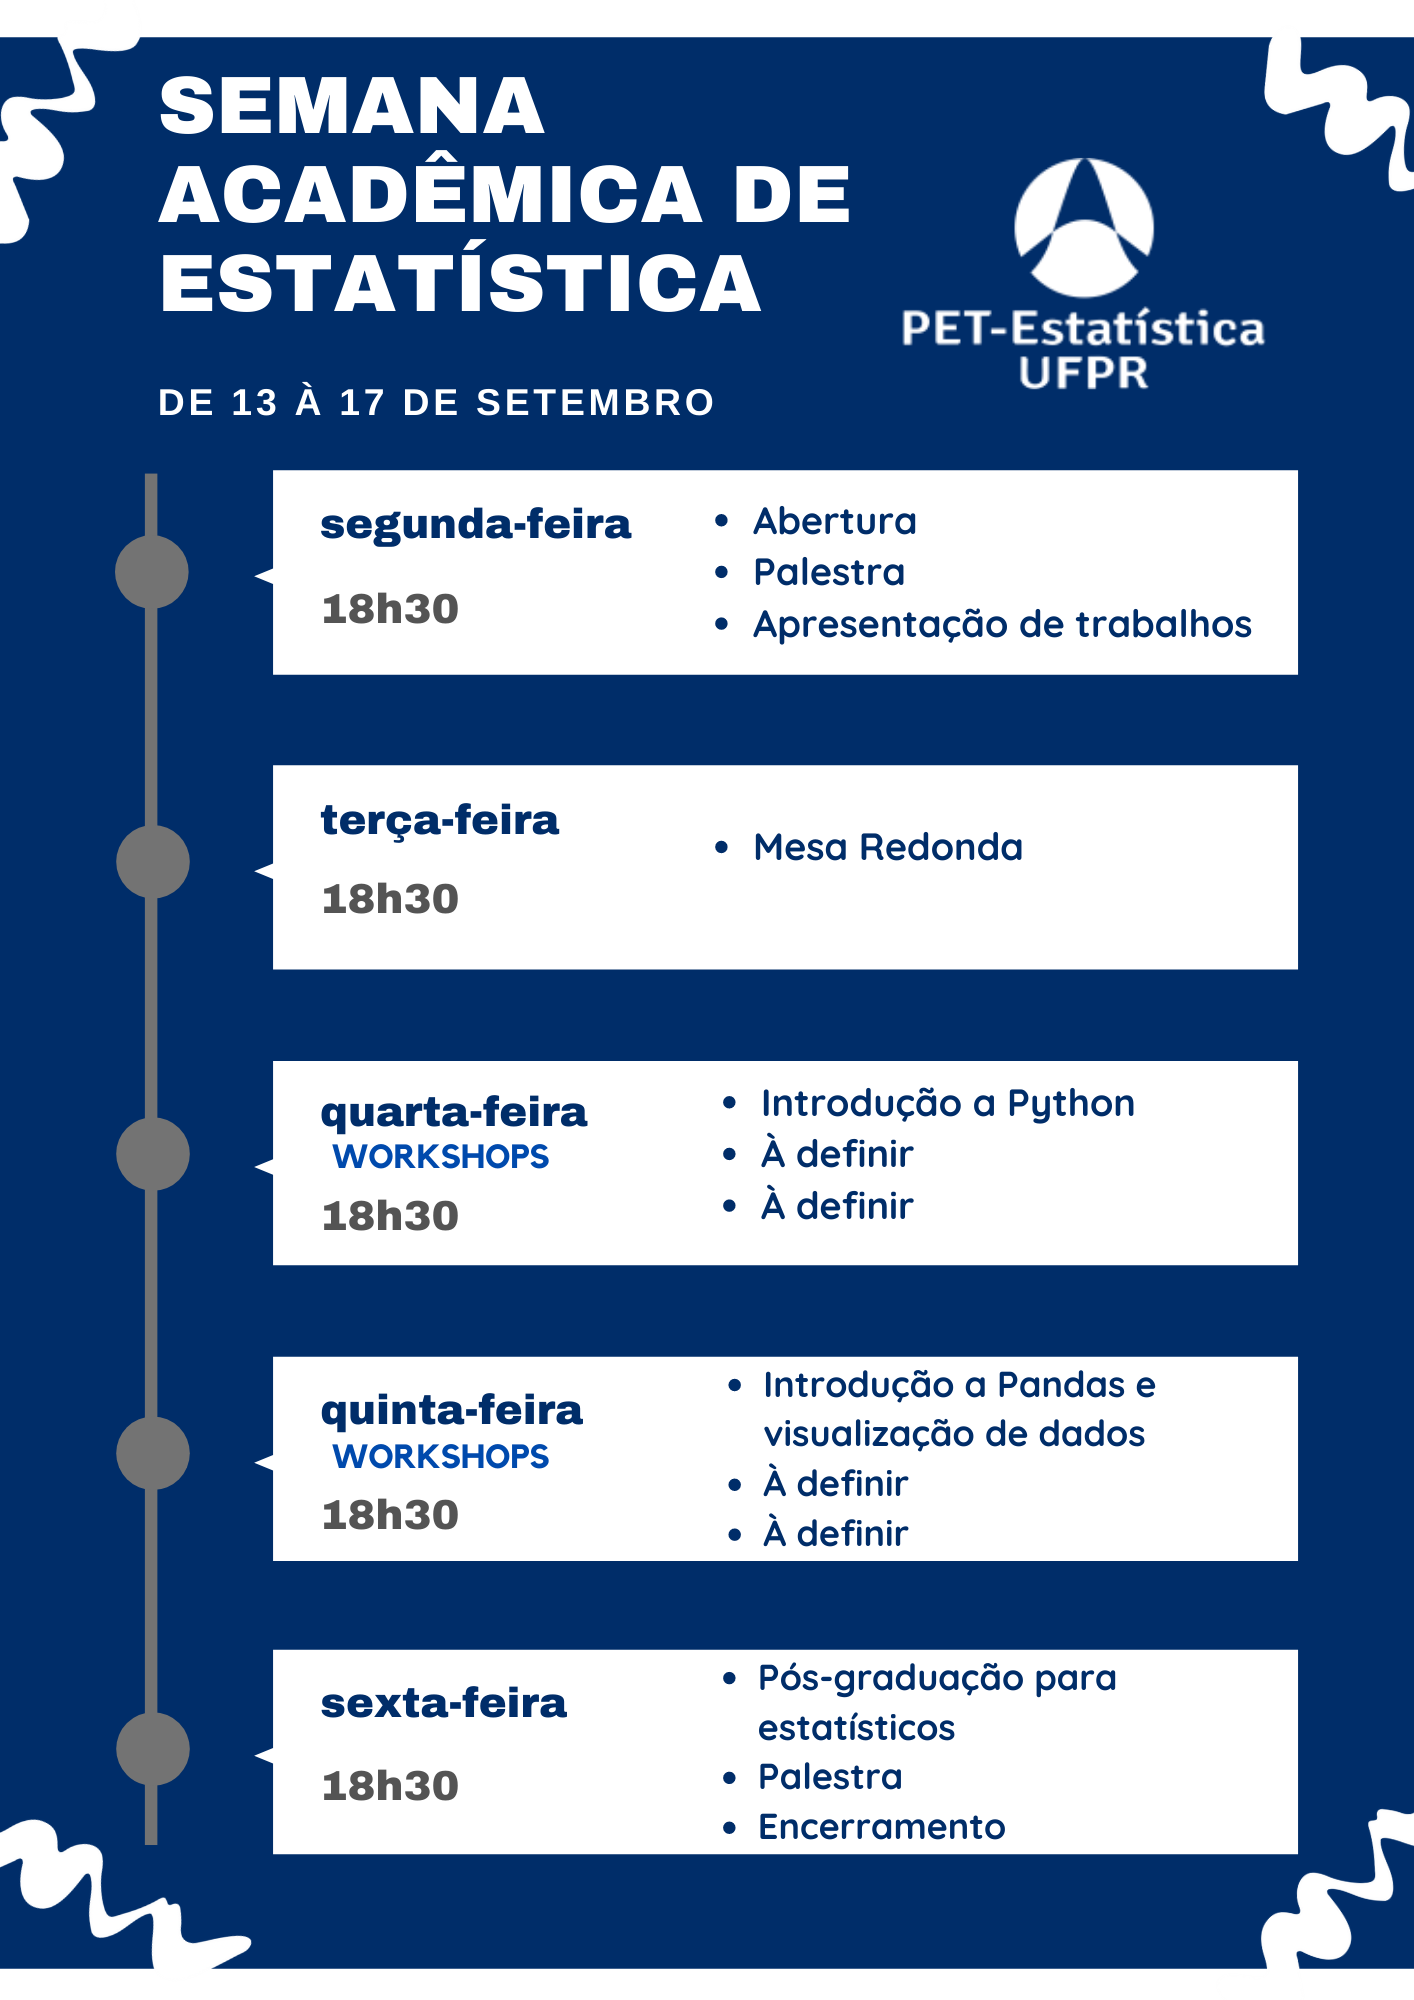
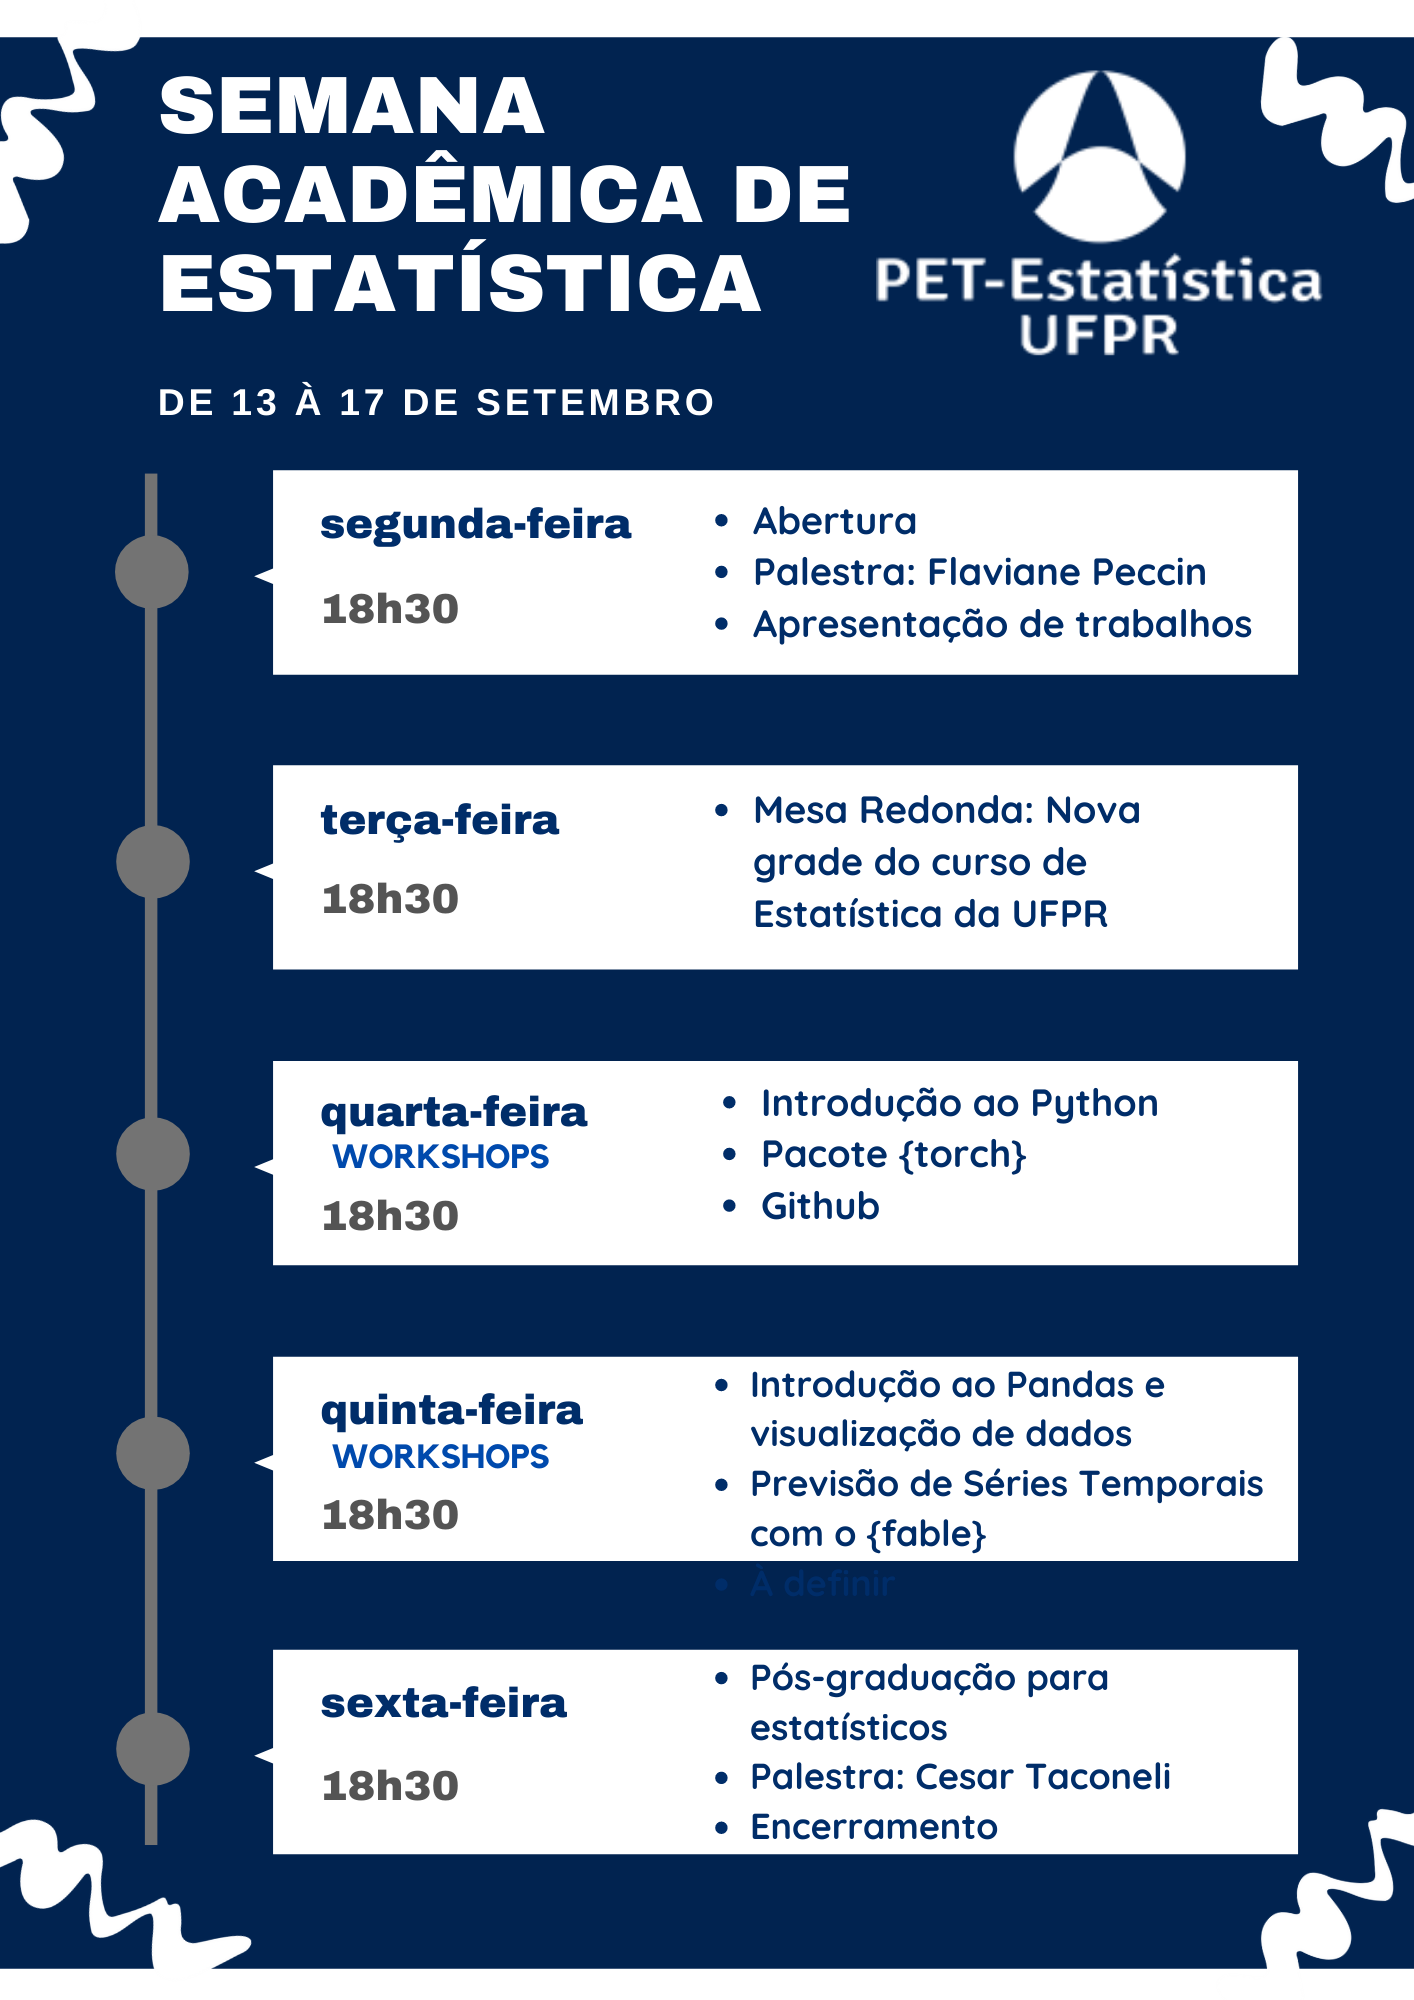
Atualiza pagina geral

diff --git a/content/semana/crono.html b/content/semana/crono.html
@@ -22,81 +22,64 @@
 
 </head>
 <body>
-<table class="table table-striped table-bordered" style="margin-left: auto; margin-right: auto;">
- <thead>
-  <tr>
-   <th style="text-align:left;"> Hora1 </th>
-   <th style="text-align:left;"> Segunda 13/09 </th>
-   <th style="text-align:left;"> Hora2 </th>
-   <th style="text-align:left;"> Terça 14/09 </th>
-   <th style="text-align:left;"> Hora3 </th>
-   <th style="text-align:left;"> Quarta 15/09 </th>
-   <th style="text-align:left;"> Hora4 </th>
-   <th style="text-align:left;"> Quinta 16/09 </th>
-   <th style="text-align:left;"> Hora5 </th>
-   <th style="text-align:left;"> Sexta 17/09 </th>
-  </tr>
- </thead>
+<table class="table table-striped table-bordered table-responsive" style="margin-left: auto; margin-right: auto;">
 <tbody>
-  <tr>
-   <td style="text-align:left;"> 18:30 </td>
-   <td style="text-align:left;"> Abertura </td>
-   <td style="text-align:left;"> 18:30 </td>
-   <td style="text-align:left;"> Mesa redonda DEST </td>
-   <td style="text-align:left;"> 18:30 </td>
-   <td style="text-align:left;"> Workshop 1 </td>
-   <td style="text-align:left;"> 18:30 </td>
-   <td style="text-align:left;"> Workshop 3 </td>
-   <td style="text-align:left;"> 18:30 </td>
-   <td style="text-align:left;"> Apresentação pós </td>
+  <tr grouplength="3"><td colspan="2" style="border-bottom: 1px solid;color: 3f3f3f !important;background-color: lightgrey !important;"><strong>Segunda-feira (13/09)</strong></td></tr>
+<tr>
+   <td style="text-align:left;padding-left: 2em;color: 3f3f3f !important;" indentlevel="1"> 18:30 – 19:00 </td>
+   <td style="text-align:left;color: 3f3f3f !important;"> Abertura e boas vindas </td>
   </tr>
   <tr>
-   <td style="text-align:left;"> 19:00 </td>
-   <td style="text-align:left;"> Palestra </td>
-   <td style="text-align:left;"> 19:30 </td>
-   <td style="text-align:left;"> Mesa redonda DEST </td>
-   <td style="text-align:left;"> 20:00 </td>
-   <td style="text-align:left;"> GitHub </td>
-   <td style="text-align:left;"> 20:00 </td>
-   <td style="text-align:left;"> Workshop 4 </td>
-   <td style="text-align:left;"> 19:30 </td>
-   <td style="text-align:left;"> Apresentação pós </td>
+   <td style="text-align:left;padding-left: 2em;color: 3f3f3f !important;" indentlevel="1"> 19:00 – 20:15 </td>
+   <td style="text-align:left;color: 3f3f3f !important;"> Palestra de abertura: Flaviane Peccin </td>
   </tr>
   <tr>
-   <td style="text-align:left;"> 20:00 </td>
-   <td style="text-align:left;"> Apresentação de trabalhos </td>
-   <td style="text-align:left;"> 20:30 </td>
-   <td style="text-align:left;"> Mesa redonda DEST </td>
-   <td style="text-align:left;"> 20:30 </td>
-   <td style="text-align:left;"> Workshop 2 </td>
-   <td style="text-align:left;"> 20:30 </td>
-   <td style="text-align:left;"> Workshop 5 </td>
-   <td style="text-align:left;"> 20:30 </td>
-   <td style="text-align:left;"> Palestra </td>
+   <td style="text-align:left;padding-left: 2em;color: 3f3f3f !important;" indentlevel="1"> 20:15 – 21:30 </td>
+   <td style="text-align:left;color: 3f3f3f !important;"> Apresentação de trabalhos </td>
+  </tr>
+  <tr grouplength="1"><td colspan="2" style="border-bottom: 1px solid;color: 3f3f3f !important;background-color: lightgrey !important;"><strong>Terça-feira (14/09)</strong></td></tr>
+<tr>
+   <td style="text-align:left;padding-left: 2em;color: 3f3f3f !important;" indentlevel="1"> 18:30 – 20:30 </td>
+   <td style="text-align:left;color: 3f3f3f !important;"> Mesa redonda </td>
+  </tr>
+  <tr grouplength="3"><td colspan="2" style="border-bottom: 1px solid;color: 3f3f3f !important;background-color: lightgrey !important;"><strong>Quarta-feira (15/09)</strong></td></tr>
+<tr>
+   <td style="text-align:left;padding-left: 2em;color: 3f3f3f !important;" indentlevel="1"> 18:30 – 20:00 </td>
+   <td style="text-align:left;color: 3f3f3f !important;"> Workshop: Introdução ao Python </td>
   </tr>
   <tr>
-   <td style="text-align:left;"> 21:00 </td>
-   <td style="text-align:left;"> Apresentação de trabalhos </td>
-   <td style="text-align:left;">  </td>
-   <td style="text-align:left;">  </td>
-   <td style="text-align:left;">  </td>
-   <td style="text-align:left;">  </td>
-   <td style="text-align:left;">  </td>
-   <td style="text-align:left;">  </td>
-   <td style="text-align:left;"> 21:30 </td>
-   <td style="text-align:left;"> Encerramento </td>
+   <td style="text-align:left;padding-left: 2em;color: 3f3f3f !important;" indentlevel="1"> 20:00 – 21:30 </td>
+   <td style="text-align:left;color: 3f3f3f !important;"> Workshop: Pacote {torch} </td>
   </tr>
   <tr>
-   <td style="text-align:left;"> 22:00 </td>
-   <td style="text-align:left;"> Apresentação de trabalhos </td>
-   <td style="text-align:left;">  </td>
-   <td style="text-align:left;">  </td>
-   <td style="text-align:left;">  </td>
-   <td style="text-align:left;">  </td>
-   <td style="text-align:left;">  </td>
-   <td style="text-align:left;">  </td>
-   <td style="text-align:left;">  </td>
-   <td style="text-align:left;">  </td>
+   <td style="text-align:left;padding-left: 2em;color: 3f3f3f !important;" indentlevel="1"> 21:30 – 23:00 </td>
+   <td style="text-align:left;color: 3f3f3f !important;"> Workshop: Introdução ao Github </td>
+  </tr>
+  <tr grouplength="3"><td colspan="2" style="border-bottom: 1px solid;color: 3f3f3f !important;background-color: lightgrey !important;"><strong>Quinta-feira (16/09)</strong></td></tr>
+<tr>
+   <td style="text-align:left;padding-left: 2em;color: 3f3f3f !important;" indentlevel="1"> 18:30 – 20:00 </td>
+   <td style="text-align:left;color: 3f3f3f !important;"> Workshop: Introdução ao Pandas e visualização de dados </td>
+  </tr>
+  <tr>
+   <td style="text-align:left;padding-left: 2em;color: 3f3f3f !important;" indentlevel="1"> 20:00 – 21:30 </td>
+   <td style="text-align:left;color: 3f3f3f !important;"> Workshop: Previsão de Séries Temporais com o {fable} </td>
+  </tr>
+  <tr>
+   <td style="text-align:left;padding-left: 2em;color: 3f3f3f !important;" indentlevel="1"> 21:30 – 23:00 </td>
+   <td style="text-align:left;color: 3f3f3f !important;"> Workshop: Introdução ao {tidyverse} </td>
+  </tr>
+  <tr grouplength="3"><td colspan="2" style="border-bottom: 1px solid;color: 3f3f3f !important;background-color: lightgrey !important;"><strong>Sexta-feira (17/09)</strong></td></tr>
+<tr>
+   <td style="text-align:left;padding-left: 2em;color: 3f3f3f !important;" indentlevel="1"> 18:30 – 20:30 </td>
+   <td style="text-align:left;color: 3f3f3f !important;"> Pós-graduações para Estatísticos </td>
+  </tr>
+  <tr>
+   <td style="text-align:left;padding-left: 2em;color: 3f3f3f !important;" indentlevel="1"> 20:30 – 21:45 </td>
+   <td style="text-align:left;color: 3f3f3f !important;"> Palestra de encerramento: Cesar Taconeli </td>
+  </tr>
+  <tr>
+   <td style="text-align:left;padding-left: 2em;color: 3f3f3f !important;" indentlevel="1"> 21:45 – 22:00 </td>
+   <td style="text-align:left;color: 3f3f3f !important;"> Encerramento </td>
   </tr>
 </tbody>
 </table>

diff --git a/content/semana/index.md b/content/semana/index.md
@@ -6,7 +6,7 @@ date = "2020-07-13"
 aliases = ["semana"]
 author = "PET Estatística UFPR"
 +++
-
+ 
 
 <center>
 <img src="images/semana_banner.png" alt="" width="100%"/>
@@ -22,35 +22,71 @@ A Semana Acadêmica configura-se como uma atividade de extensão, conduzida majo
 
 ## Detalhamento das atividades
 
-<!--
-Eu tentei colocar uma tabela unica aqui mas fica muito largo.
-
-O ideal é criar uma tabela para cada dia, ou mesmo uma imagem para cada 
-dia com os detalhes.
-
-Mesmo que não tenham confirmações ainda, pode deixar "Workshop 1", 
-"Workshop 2", "Palestra 1", etc. Depois vamos colocando.
--->
-
-<!--
-<object data="crono.html" width="100%" height="500px"> 
+<object data="crono.html" width="100%" height="750px"> 
     Your browser doesn’t support the object tag. 
 </object>
--->
-
 
 # Submissão de trabalhos
 
-Detalhar e colocar o link do formulário.
+<center>
+<img src="images/submissao.jpeg" alt="" width="70%"/>
+</center>
+
+É aluno de graduação ou pós, e tem algum trabalho acadêmico relacionado à estatística sendo desenvolvido ou já finalizado? Venha apresentá-lo na nossa semana acadêmica!
+
+- As apresentações (*online*) serão de 15 minutos e **haverá emissão de certificado**!
+- Para submeter um trabalho basta preencher o formulário abaixo com título e um resumo de no máximo 200 palavras.
+- As apresentações poderão ser feitas "ao vivo" ou por meio de um vídeo enviado previamente.
+
+<center>
+
+[**FORMULÁRIO PARA SUBMISSÃO DE TRABALHO**](https://docs.google.com/forms/d/e/1FAIpQLSf1inxdn727ms6IojCYuaKKNFmf3iGfODlLwO8zHuF5PZpikw/viewform)
+
+</center>
 
 # Inscrições
 
 ## Inscrição no evento
 
-Disponibilizar o link e falar que terá certificado.
+Para se inscrever na Semana Acadêmica, preencha o formulário abaixo.
+
+<center>
+
+[**FORMULÁRIO DE INSCRIÇÃO NA SEMANA ACADÊMICA**](https://docs.google.com/forms/d/e/1FAIpQLSf1inxdn727ms6IojCYuaKKNFmf3iGfODlLwO8zHuF5PZpikw/viewform)
+
+</center>
+
+Faça parte do **grupo no WhatsApp** para receber avisos e atualizações sobre o evento (não é um grupo de discussão, as mensagens serão enviadas apenas pelos administradores). [Link para entrar no grupo](https://chat.whatsapp.com/HzOyA4DNPlwGtHnoADPHov).
 
 ## Inscrição nos workshops
 
-Em breve.
+As inscrições nos workshops são **gratuitas** e você pode se inscrever em quantos workshops quiser!
+
+Em breve serão disponibilizados os links para inscrição nos workshops.
+
+- Workshop: Introdução ao Python
+- Workshop: Pacote {torch}
+- Workshop: Introdução ao Github
+- Workshop: Introdução ao Pandas e visualização de dados
+- Workshop: Previsão de Séries Temporais com o {fable}
+- Workshop: Introdução ao {tidyverse}
+
+# Organização e contato
+
+A Semana Acadêmica do curso de Estatística da UFPR é um evento organizado pelo PET Estatística, com o apoio da [Coordenação do curso de Estatística](http://www.coordest.ufpr.br/) e do [Departamento de Estatística](http://est.ufpr.br/) da UFPR, e conta com a coordenação geral das petianas
+
+- Amábile Galdino Leandro
+- Letícia Gabriele de Oliveira
+
+### Dúvidas?
+
+Entre em contato
+
+- Pelo email: pet.estatistica.ufpr@gmail.com
+- Pelo Instagram: [@pet.est.ufpr](https://www.instagram.com/pet.est.ufpr/)
+
+
+
+
 
 
